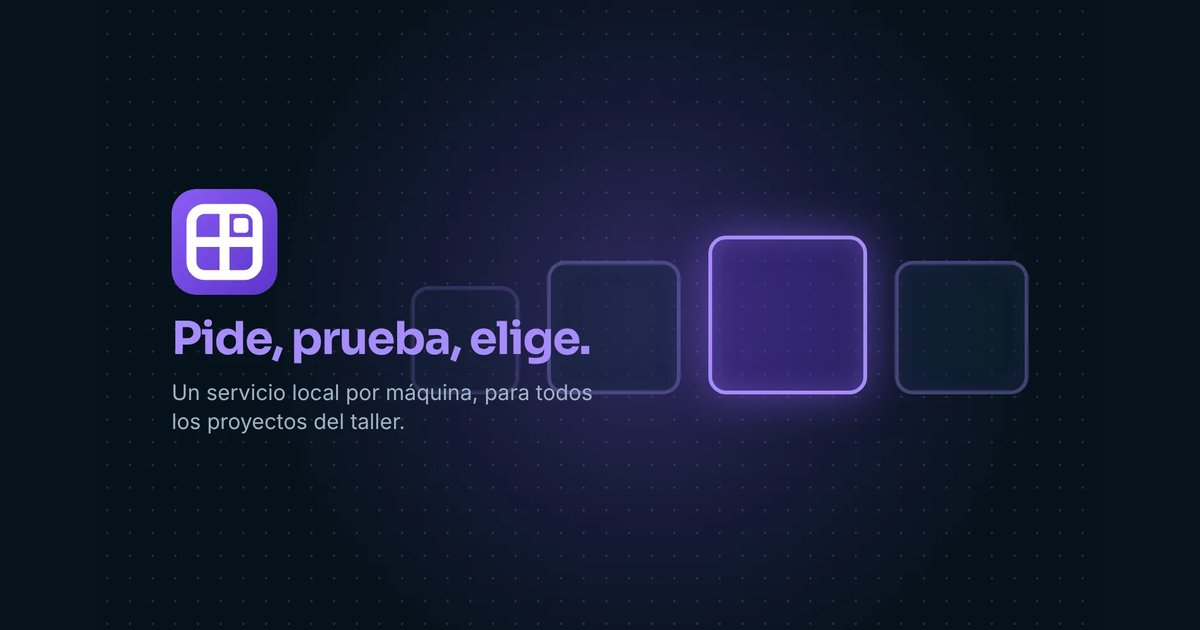
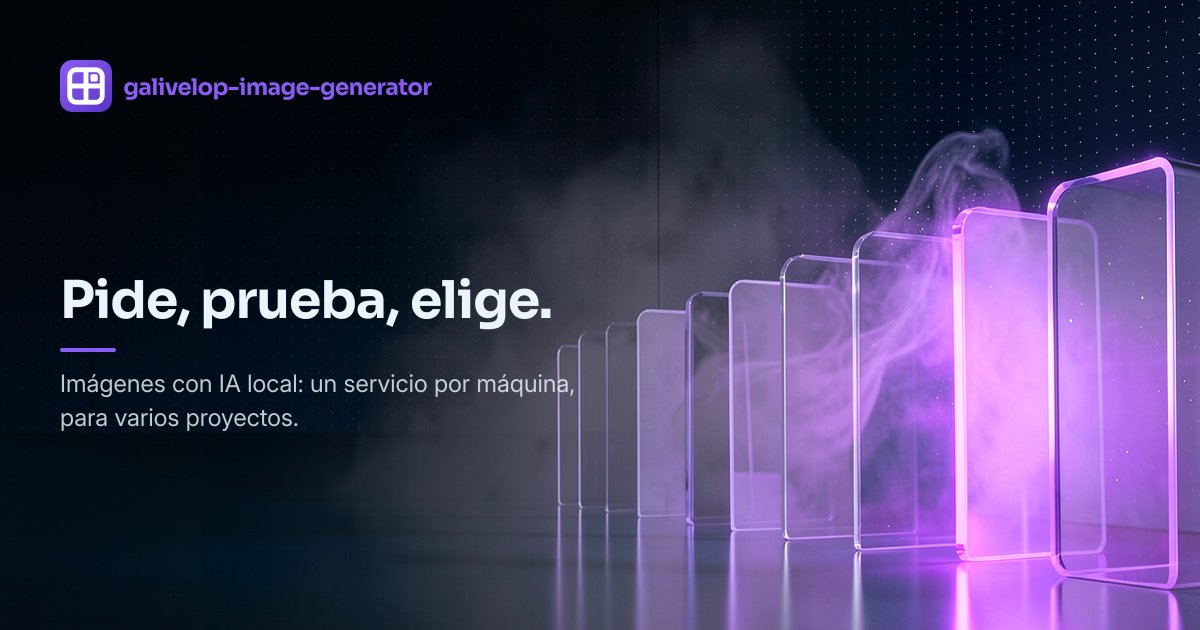
fix(marca): arreglos de la revisión de la identidad visual y vistas previas de Galivelop IG
Fase 1 del cambio grande: theme-color del color de la cabecera de cada tema
(guion de arranque y useTema), h4 unificado, utilidades .datos/.chaflan sin uso
fuera, chaflán de .boton como token --chaflan-pequeno, tipografías al día en
docs/desarrollo.md y función cruce() en isobatas-provisionales.py (mismo SVG).
Vistas previas en redes hechas por la persona con el generador de imágenes:
og-fuente.png de toVeriAI y de galivelop-image-generator; tools/og/generar.py
las prefiere a la portada y og.test.ts comprueba la huella del origen.
Leves apuntados en la bitácora. Check en verde (tsc, prettier, vitest 118,
ganchos); build 42 páginas.

Siguiente: fase 2, gw-opt-tokens, retro y gw-seo presentadas a la persona

Claude-Session: https://claude.ai/code/session_01VdeHmCDV7sR1VeH1DhS3T9

diff --git a/src/data/og.test.ts b/src/data/og.test.ts
@@ -27,23 +27,26 @@ function comentarioJpeg(b: Buffer): string | null {
 }
 
 // La vista previa en redes de cada ficha: scripts/paginas-estaticas.mjs usa og.jpg y, si falta, la portada en WebP sin
-// medidas, que Facebook no acepta. Se genera con `python3 tools/og/generar.py`, que deja en el JPEG la huella de la
-// portada: si la portada cambia y la vista previa no se regenera, la tarjeta en redes enseñaría la imagen vieja.
+// medidas, que Facebook no acepta. Se genera con `python3 tools/og/generar.py` a partir de `og-fuente.png` (o `.jpg`,
+// una imagen hecha para redes) si existe junto a la portada, y si no de la portada; deja en el JPEG la huella de ese
+// origen: si cambia y la vista previa no se regenera, la tarjeta en redes enseñaría la imagen vieja.
 describe('vista previa de cada proyecto', () => {
   it.each(proyectos.map((p) => [p.slug, p.portada.src]))(
-    '%s tiene og.jpg de 1200×630, al día con su portada',
+    '%s tiene og.jpg de 1200×630, al día con su origen',
     (_, portada) => {
-      const ruta = `public/${portada.replace(/[^/]+$/, '')}og.jpg`;
+      const carpeta = `public/${portada.replace(/[^/]+$/, '')}`;
+      const ruta = `${carpeta}og.jpg`;
       expect(existsSync(ruta), `falta ${ruta}: python3 tools/og/generar.py`).toBe(true);
       const og = readFileSync(ruta);
       expect(medidasJpeg(og)).toEqual([1200, 630]);
-      const huella = `portada:${createHash('sha1')
-        .update(readFileSync(`public/${portada}`))
+      const fuente = ['og-fuente.png', 'og-fuente.jpg'].find((f) => existsSync(carpeta + f));
+      const origen = fuente ? `${carpeta}${fuente}` : `public/${portada}`;
+      const huella = `${fuente ? 'og-fuente' : 'portada'}:${createHash('sha1')
+        .update(readFileSync(origen))
         .digest('hex')}`;
-      expect(
-        comentarioJpeg(og),
-        `${ruta} no sale de la portada actual: python3 tools/og/generar.py`,
-      ).toBe(huella);
+      expect(comentarioJpeg(og), `${ruta} no sale de ${origen}: python3 tools/og/generar.py`).toBe(
+        huella,
+      );
     },
   );
 });

diff --git a/src/estilos/global.css b/src/estilos/global.css
@@ -19,6 +19,7 @@
   --radio-sm: 0;
   --chaflan: 14px;
   --chaflan-grande: 28px;
+  --chaflan-pequeno: 10px; /* botones */
   --reticula-paso: 24px;
   --ancho: 1180px;
   /* Curva de toda transición: decelera al llegar (nada de ease/linear del navegador). 200 ms como mínimo. */
@@ -131,40 +132,15 @@ h3 {
   text-wrap: balance;
 }
 
+/* Sin el margen del navegador: si no, los títulos de las tarjetas bajan respecto a su icono o su número. */
 h4 {
+  margin: 0;
   font-family: var(--fuente-titulos);
   font-weight: 700;
   font-size: 1.35rem;
   line-height: 1.1;
   letter-spacing: 0.01em;
   text-transform: uppercase;
-}
-
-/* Datos: antetítulos, etiquetas, fechas, versiones, escalas. */
-.datos {
-  font: var(--datos);
-  letter-spacing: var(--datos-espaciado);
-  text-transform: uppercase;
-}
-
-/* Chaflán en la esquina superior derecha, como la hoja doblada de un cuaderno. */
-.chaflan {
-  clip-path: polygon(0 0, calc(100% - var(--chaflan)) 0, 100% var(--chaflan), 100% 100%, 0 100%);
-}
-
-.chaflan-grande {
-  clip-path: polygon(
-    0 0,
-    calc(100% - var(--chaflan-grande)) 0,
-    100% var(--chaflan-grande),
-    100% 100%,
-    0 100%
-  );
-}
-
-/* Sin el margen del navegador: si no, los títulos de las tarjetas bajan respecto a su icono o su número. */
-h4 {
-  margin: 0;
 }
 
 p {
@@ -433,7 +409,13 @@ button {
   text-transform: uppercase;
   text-decoration: none;
   border: 1px solid transparent;
-  clip-path: polygon(0 0, calc(100% - 10px) 0, 100% 10px, 100% 100%, 0 100%);
+  clip-path: polygon(
+    0 0,
+    calc(100% - var(--chaflan-pequeno)) 0,
+    100% var(--chaflan-pequeno),
+    100% 100%,
+    0 100%
+  );
   transition:
     transform var(--transicion),
     background var(--transicion),

diff --git a/index.html b/index.html
@@ -5,7 +5,7 @@
     <meta name="viewport" content="width=device-width, initial-scale=1.0" />
     <title>Galivelop</title>
     <meta name="description" content="Galivelop son dos cosas: el taller, que crea, investiga y aprende a la vista y con la puerta abierta, y Productos, lo que sale de él con el código abierto y montamos en tu proyecto, y los servicios de sus integrantes." />
-    <meta name="theme-color" content="#1AA6DF" />
+    <meta name="theme-color" content="#ffffff" />
     <meta name="google-site-verification" content="2Ze1UdXRlPzOYNDXjFyE5ieBVbTEjah6yuOS0gMLzcc" />
     <link rel="icon" type="image/svg+xml" href="%BASE_URL%marca/gv-logo.svg" />
     <link rel="apple-touch-icon" href="%BASE_URL%marca/gv-logo-512.png" />
@@ -32,6 +32,8 @@
         var t = localStorage.getItem('galivelop.tema');
         if (t !== 'claro' && t !== 'oscuro') t = matchMedia('(prefers-color-scheme: dark)').matches ? 'oscuro' : 'claro';
         document.documentElement.dataset.tema = t;
+        // Barra del navegador del color de la cabecera (--superficie de cada tema).
+        document.querySelector('meta[name="theme-color"]').content = t === 'oscuro' ? '#111f29' : '#ffffff';
       } catch (e) {}
     </script>
   </head>

diff --git a/src/components/Tema.tsx b/src/components/Tema.tsx
@@ -2,6 +2,8 @@ import { useEffect, useState } from 'react';
 
 type Tema = 'claro' | 'oscuro';
 const CLAVE_GUARDADA = 'galivelop.tema';
+/** Color de la barra del navegador: el de la cabecera (`--superficie`) en cada tema. Mismos valores que en index.html. */
+const COLOR_BARRA: Record<Tema, string> = { claro: '#ffffff', oscuro: '#111f29' };
 
 function temaInicial(): Tema {
   try {
@@ -18,6 +20,7 @@ export function useTema() {
 
   useEffect(() => {
     document.documentElement.dataset.tema = tema;
+    document.querySelector('meta[name="theme-color"]')?.setAttribute('content', COLOR_BARRA[tema]);
   }, [tema]);
 
   const alternar = () => {

diff --git a/tools/og/generar.py b/tools/og/generar.py
@@ -1,11 +1,14 @@
 #!/usr/bin/env python3
 """Genera la imagen de vista previa (og.jpg, 1200x630, JPEG) de cada proyecto a partir de su portada.
 
+Si junto a la portada hay un `og-fuente.png` (o `.jpg`), una imagen hecha para redes (1200x630, p. ej. del generador de
+imágenes de Galivelop), la vista previa sale de ese archivo y no de la portada.
+
 Las redes (Facebook, LinkedIn, WhatsApp…) documentan JPEG/PNG y 1.91:1; la portada es WebP con otra proporción. Una
 portada más ancha que 1.91:1 (una ilustración apaisada) se recorta por los lados; una más alta se encaja entera (sin
 cortar texto ni diagramas) sobre un fondo del color medio de sus bordes.
-Cada og.jpg lleva en su comentario JPEG la huella de la portada de la que sale («portada:<sha1>»): src/data/og.test.ts
-falla si la portada cambia y nadie regenera la vista previa.
+Cada og.jpg lleva en su comentario JPEG la huella del archivo del que sale («portada:<sha1>» u «og-fuente:<sha1>»):
+src/data/og.test.ts falla si ese archivo cambia y nadie regenera la vista previa.
 Uso, tras cambiar una portada: python3 tools/og/generar.py   (necesita Pillow; escribe public/proyectos/<slug>/og.jpg)
 """
 import hashlib
@@ -27,8 +30,17 @@ def borde(img: Image.Image) -> tuple[int, ...]:
     return tuple(round(sum(m[c] for m in medias) / len(medias)) for c in range(3))
 
 
-def huella(portada: Path) -> bytes:
-    return b'portada:' + hashlib.sha1(portada.read_bytes()).hexdigest().encode()
+FUENTES = ('og-fuente.png', 'og-fuente.jpg')
+
+
+def origen(portada: Path) -> Path:
+    """La imagen hecha para redes si existe junto a la portada; si no, la portada."""
+    return next((portada.parent / f for f in FUENTES if (portada.parent / f).exists()), portada)
+
+
+def huella(archivo: Path) -> bytes:
+    tipo = b'og-fuente' if archivo.name in FUENTES else b'portada'
+    return tipo + b':' + hashlib.sha1(archivo.read_bytes()).hexdigest().encode()
 
 
 def generar(portada: Path, destino: Path) -> None:
@@ -57,7 +69,7 @@ def main() -> int:
         datos = json.loads(ficha.read_text(encoding='utf-8'))
         portada = RAIZ / 'public' / datos['portada']['src']
         destino = portada.parent / 'og.jpg'
-        generar(portada, destino)
+        generar(origen(portada), destino)
         print(destino.relative_to(RAIZ))
     return 0
 

diff --git a/scripts/isobatas-provisionales.py b/scripts/isobatas-provisionales.py
@@ -46,6 +46,11 @@ def val(i, j):
     return v[j * cols + i]
 
 
+def cruce(t, v1, v2):
+    """Dónde corta el nivel t la arista entre dos valores, de 0 a 1."""
+    return (t - v1) / (v2 - v1)
+
+
 print(f'<svg xmlns="http://www.w3.org/2000/svg" viewBox="0 0 {W} {H}" fill="none" stroke="#fff" stroke-linecap="round">')
 print("<!-- Isobatas provisionales (ruido). Las definitivas salen de EMODnet; ver docs/marca.md. -->")
 for k in range(1, NIVELES):
@@ -57,18 +62,14 @@ for k in range(1, NIVELES):
             a, b, c, d = val(i, j), val(i + 1, j), val(i + 1, j + 1), val(i, j + 1)
             x, y = i * PASO, j * PASO
             p = []
-
-            def e(v1, v2):
-                return (t - v1) / (v2 - v1)
-
             if (a < t) != (b < t):
-                p.append((x + e(a, b) * PASO, y))
+                p.append((x + cruce(t, a, b) * PASO, y))
             if (b < t) != (c < t):
-                p.append((x + PASO, y + e(b, c) * PASO))
+                p.append((x + PASO, y + cruce(t, b, c) * PASO))
             if (c < t) != (d < t):
-                p.append((x + (1 - e(c, d)) * PASO, y + PASO))
+                p.append((x + (1 - cruce(t, c, d)) * PASO, y + PASO))
             if (d < t) != (a < t):
-                p.append((x, y + (1 - e(d, a)) * PASO))
+                p.append((x, y + (1 - cruce(t, d, a)) * PASO))
             for q in range(0, len(p) - 1, 2):
                 segs.append(f"M{p[q][0]:.0f} {p[q][1]:.0f}L{p[q+1][0]:.0f} {p[q+1][1]:.0f}")
     print(f'<path stroke-width="{ancho}" stroke-opacity="{alfa}" d="{"".join(segs)}"/>')

diff --git a/docs/handoff.md b/docs/handoff.md
@@ -74,7 +74,8 @@ Aquí se apunta lo que está en la rama de trabajo y aún no en `main`.
 
 ## Pendiente
 
-- **Identidad visual propia** (la persona, 2026-11-08; sesión `ccr-47a38edd-v566du`): la web se ve como cualquier web hecha con IA (oscuro azul marino, resplandor, Inter + Sora, esquinas de 18 px, degradados, desenfoque). **Decidido:** tema **claro por defecto**; **cambiar las tipografías** (gustan las cuadradas y una serif sobria); dirección **cuaderno de taller + carta náutica atlántica** (el mar como isobatas reales de la costa gallega, coordenadas y escalas, celeste plano en bloques, chaflanes en vez de esquinas redondas; de Razer/Blizzard se toma el color propio en grandes dosis). Investigación en `docs/investigacion/estilo-marca.md` (sin poder abrir las webs: red de la sesión). Prototipo con tres combinaciones de tipografía: https://claude.ai/artifact/UoLydvcktgu8jYwioKbygq. La persona lo aprobó (2026-11-08: «lo veo genial»; corregido el montaje de los títulos). **Hoja de estilos de marca en `docs/marca.md`**: carácter, 10 reglas, tokens, tipografías candidatas y la lista de **imágenes a generar con Galivelop IG** (logo, isobatas reales, `og:image`, portadas por estado, iconos…) con medidas, forma, sustituto provisional y prompt. **Tipografía B elegida** (2026-11-08). **En la rama:** fuentes B instaladas (`@fontsource-variable/big-shoulders-display`, `literata`, `jetbrains-mono`; fuera Inter y Sora), tema claro por defecto (`index.html`, `Tema.tsx`), tokens nuevos en `global.css` (papel con retícula, `--tinta`, `--filete`, `--celeste-hondo`, `--fuente-datos`, `--datos`, chaflanes; `--radio` a 0 y los radios fijos rectos), cabecera, botones, chips, estados, filtros, tarjetas de proyecto y la portada como bloque celeste con isobatas provisionales (`public/marca/isobatas.svg`, de `scripts/isobatas-provisionales.py`; las reales, recurso 2 de `docs/marca.md`), logo plano con chaflán (`Logo.tsx`). **Barrido hecho** (2026-11-08): fuera todos los degradados (salvo la retícula del papel y los fundidos de desplazamiento de `.nav-ficha`, que son funcionales), `backdrop-filter`, sombras y resplandores; el velo de la cabecera de ficha es plano y solo en `cabecera-ilustracion`; las de `captura` y `color`, bloque plano del acento; avatares e iniciales en celeste hondo; focos como línea de tinta; etiquetas (`.proxima-etiqueta`, `.pie-columna h2`, `.contacto-proyectos h3`, `.perfil-negocio`, `.miembro-antetitulo`, `.vistazo-etiqueta`, `.nav-etiqueta`, `.submenu-boton`) en `--datos`. Revisado en capturas (escritorio y móvil, claro y oscuro: portada, Tarkor, toVeriAI, Galivelop-workflow, IG, equipo, perfil, Productos, 404). **Falta:** capturas antes/después para el resumen a la persona (build «antes» en el scratchpad de la sesión, puerto 4174) y las fases 1, 2 y 3 antes de `main` (cambio grande).
+- **Identidad visual propia** (la persona, 2026-11-08; sesión `ccr-47a38edd-v566du`): la web se ve como cualquier web hecha con IA (oscuro azul marino, resplandor, Inter + Sora, esquinas de 18 px, degradados, desenfoque). **Decidido:** tema **claro por defecto**; **cambiar las tipografías** (gustan las cuadradas y una serif sobria); dirección **cuaderno de taller + carta náutica atlántica** (el mar como isobatas reales de la costa gallega, coordenadas y escalas, celeste plano en bloques, chaflanes en vez de esquinas redondas; de Razer/Blizzard se toma el color propio en grandes dosis). Investigación en `docs/investigacion/estilo-marca.md` (sin poder abrir las webs: red de la sesión). Prototipo con tres combinaciones de tipografía: https://claude.ai/artifact/UoLydvcktgu8jYwioKbygq. La persona lo aprobó (2026-11-08: «lo veo genial»; corregido el montaje de los títulos). **Hoja de estilos de marca en `docs/marca.md`**: carácter, 10 reglas, tokens, tipografías candidatas y la lista de **imágenes a generar con Galivelop IG** (logo, isobatas reales, `og:image`, portadas por estado, iconos…) con medidas, forma, sustituto provisional y prompt. **Tipografía B elegida** (2026-11-08). **En la rama:** fuentes B instaladas (`@fontsource-variable/big-shoulders-display`, `literata`, `jetbrains-mono`; fuera Inter y Sora), tema claro por defecto (`index.html`, `Tema.tsx`), tokens nuevos en `global.css` (papel con retícula, `--tinta`, `--filete`, `--celeste-hondo`, `--fuente-datos`, `--datos`, chaflanes; `--radio` a 0 y los radios fijos rectos), cabecera, botones, chips, estados, filtros, tarjetas de proyecto y la portada como bloque celeste con isobatas provisionales (`public/marca/isobatas.svg`, de `scripts/isobatas-provisionales.py`; las reales, recurso 2 de `docs/marca.md`), logo plano con chaflán (`Logo.tsx`). **Barrido hecho** (2026-11-08): fuera todos los degradados (salvo la retícula del papel y los fundidos de desplazamiento de `.nav-ficha`, que son funcionales), `backdrop-filter`, sombras y resplandores; el velo de la cabecera de ficha es plano y solo en `cabecera-ilustracion`; las de `captura` y `color`, bloque plano del acento; avatares e iniciales en celeste hondo; focos como línea de tinta; etiquetas (`.proxima-etiqueta`, `.pie-columna h2`, `.contacto-proyectos h3`, `.perfil-negocio`, `.miembro-antetitulo`, `.vistazo-etiqueta`, `.nav-etiqueta`, `.submenu-boton`) en `--datos`. Revisado en capturas (escritorio y móvil, claro y oscuro: portada, Tarkor, toVeriAI, Galivelop-workflow, IG, equipo, perfil, Productos, 404). **Fase 1 hecha** (2026-11-08, `/code-review --max-findings all` contra `origin/main`): arreglados `theme-color` (ahora el color de la cabecera de cada tema, lo cambia el guion de arranque y `useTema`), el `h4` duplicado, las utilidades `.datos`/`.chaflan` sin uso (fuera), el chaflán de `.boton` como token (`--chaflan-pequeno`), `docs/desarrollo.md` (tipografías) y la función interna de `isobatas-provisionales.py`. **Vistas previas de la persona** (Galivelop IG): `og-fuente.png` de toVeriAI y del generador de imágenes; `tools/og/generar.py` lo prefiere a la portada y `og.test.ts` comprueba la huella del origen. La del portal (azul oscuro con resplandor) no se usa: es el estilo viejo; se pide con el recurso 3 de `docs/marca.md`. **Falta:** fase 2 (`gw-opt-tokens`, `retro`, `gw-seo`, presentadas a la persona) y fase 3 (`reviewed.sh`) antes de `main`.
+- **Leves de la revisión de la identidad visual** (2026-11-08, no se vuelven a revisar en este cambio): `--radio` y `--radio-sm` valen 0 y unas 90 declaraciones `border-radius` (con el token o `0` literal) ya no hacen nada; el trío `font: var(--datos); letter-spacing; text-transform` se repite en una veintena de reglas de `global.css` (agruparlas o volver a una utilidad cuando se toque); `FONDO_PILDORA.claro` de `IconoTecnologia.tsx` es una constante a mano y el icono de Vue queda a 2,01:1 del umbral 2:1 (calcularla desde los tokens).
 - **Leves de la fase 3 de la retro del 2026-11-05** (no se vuelven a revisar en este cambio): `bloque.py` escribe en una línea una lista de valores simples aunque estuviera desplegada, solo reconoce fichas con dos espacios de sangría, pasa CRLF a LF y usa la misma salida (2) para un uso incorrecto y para un JSON roto.
 - **Leves de la revisión de `gw-seo`** (2026-11-05, no se vuelven a revisar en este cambio): el test de longitudes de `proyectos.test.ts` copia la fórmula del título del generador y solo mira fichas con `seo`; `comprobar.py` toma un `<title>` de un SVG si la cabecera no tiene y cuenta `h1`/`img` dentro de `<noscript>`; sin `--site`, un `Sitemap:` en una subcarpeta da una base equivocada; `top_types()` se recalcula en cada comparación.
 - **toVeriAI: la frase de los modelos que leen imágenes** (la persona, 2026-11-04): fuera hasta que Raquel confirme que está en producción.

diff --git a/docs/desarrollo.md b/docs/desarrollo.md
@@ -34,7 +34,9 @@ cuando su repositorio es público; si es privado, no se enlaza. Además, el port
   `src/components/Logo.tsx`). El travesaño de la G se prolonga hasta el brazo de la V.
 - Colores: el azul celeste y el blanco de la bandera gallega, sin su composición:
   `#1AA6DF` (celeste), `#0083C1` (celeste intenso), `#FFFFFF`.
-- Tipografías: Sora (títulos) e Inter (texto), servidas desde el propio sitio.
+- Tipografías: Big Shoulders Display (títulos, `--fuente-titulos`), Literata (texto, `--fuente-texto`) y JetBrains
+  Mono (datos: etiquetas, fechas, cifras; `--fuente-datos`), servidas desde el propio sitio (`@fontsource-variable`).
+  La hoja de estilos de la marca completa: [`marca.md`](marca.md).
 - Vista previa al compartir en redes: `public/marca/galivelop-portal.jpg` (1200×630, captura de la
   portada), declarada en `index.html` con URL absolutas (X y otras redes no aceptan rutas relativas).
   Si cambia la portada, rehacer la captura y nada más: `scripts/paginas-estaticas.mjs` pone en cada página la
@@ -274,7 +276,9 @@ ruta nueva se añade en ese script. La dirección del portal y la clave están e
   el job `avisar` de `pages.yml` manda después por IndexNow (Bing, Yandex, Seznam, Naver…) las páginas nuevas o con
   otro `lastmod` (`node scripts/indexnow.mjs cambios`, tras `npm run build`, enseña cuáles serían).
 - **Vista previa en redes:** `og:locale` por idioma; la de cada proyecto es `public/proyectos/<slug>/og.jpg`
-  (1200×630, JPEG), que se genera desde la portada con `python3 tools/og/generar.py` (Pillow) al cambiarla. Una
+  (1200×630, JPEG), que genera `python3 tools/og/generar.py` (Pillow) desde `og-fuente.png` (una imagen hecha para
+  redes, p. ej. del generador de imágenes de Galivelop) si está junto a la portada, y si no desde la portada; se
+  vuelve a correr al cambiar cualquiera de las dos. Una
   tarjeta ya compartida no se refresca sola: Facebook (Sharing Debugger), LinkedIn (Post Inspector), Telegram
   (`@WebpageBot`); en Discord y WhatsApp solo cambia si cambia la URL.
 - **Título y descripción:** los de cada página van en `FIJAS` del script; los de un proyecto salen de su lema y su
